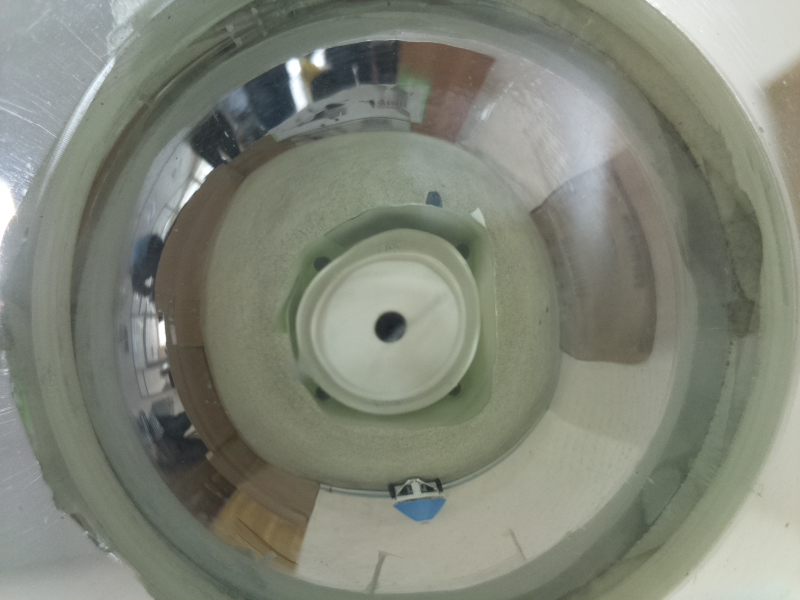
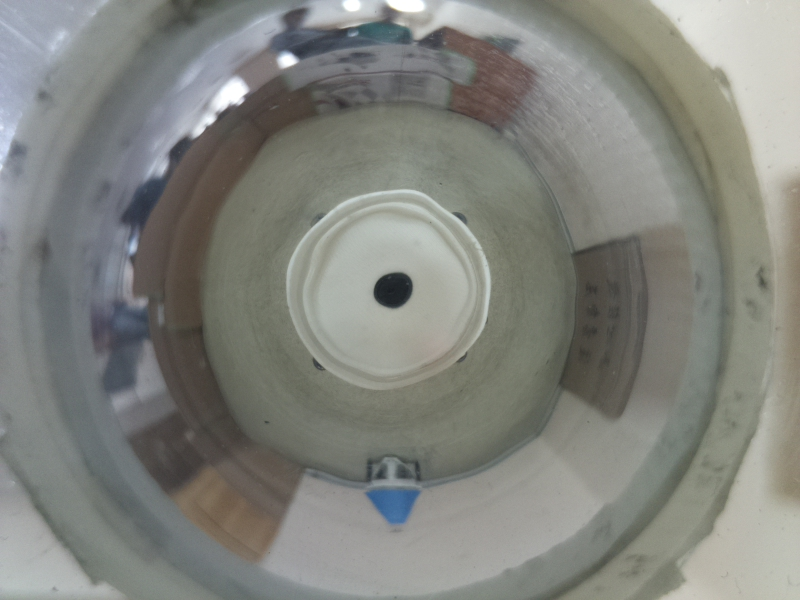
斜めの矩形描画に対応
・minAreaRect()で、回転を考慮した外接矩形を描画させました。
・tupleにしたいけどlistになっているので、型変換をおこないました。(main)
・新たに撮影実験を行って、100-1000[mm]の100[mm]毎の写真を手に入れました。（500mm地点で斜め４５[deg]版あり）

diff --git a/ObjectTracking.py b/ObjectTracking.py
@@ -9,6 +9,7 @@ import serial
 import threading
 import json
 import sys
+import math
 
 #コマンドライン引数の受け取りのため
 args = sys.argv
@@ -51,7 +52,7 @@ def cut_circle(img):
 
   # マスク処理(ミラー部分だけを切り取る)
   result = cv2.bitwise_and(img, img, mask=white_img)
-    
+
   return result
 
 # Find Target Color
@@ -60,7 +61,7 @@ def find_rect_of_target_color(getImage,colorNum):
   h = hsv[:, :, 0]
   s = hsv[:, :, 1]
   mask = np.zeros(h.shape, dtype=np.uint8)
-  
+
   #Red
   if(colorNum == 1):
       mask[( (h < colorRange[0][0]) | (h > colorRange[0][1]) ) & (s > 128)] = 255
@@ -79,53 +80,58 @@ def find_rect_of_target_color(getImage,colorNum):
 
   getImage,contours,hierarchy = cv2.findContours(mask, cv2.RETR_TREE, cv2.CHAIN_APPROX_SIMPLE)
   rects = []
-  
+
   for i in range(0,2):
     for contour in contours:
       approx = cv2.convexHull(contour)
-      rect = cv2.boundingRect(approx)
+      #rect = cv2.boundingRect(approx)
+
+      rect = cv2.minAreaRect(approx)
+      #print (rect)
+      #box = cv2.boxPoints(rect)
+      #box = np.int0(box)
       rects.append(np.array(rect))
+      #box.append(np.array(box))
 
   return rects
-
 
 if __name__ == '__main__':
 
   # Loading Image's
-  image = cv2.imread('C:\\Users\\nct20\\Documents\\GitHub\\objectTracking\\image_input\\1000mm.jpg')
+  image = cv2.imread('C:\\Users\\nct20\\Documents\\GitHub\\objectTracking\\image_input\\200mm.jpg')
   template = cv2.imread('C:\\Users\\nct20\\Documents\\GitHub\\objectTracking\\image_input\\robot_sample_200mm.jpg',0)
-  
+
   rectsR = []
   rectsB = []
   rectsG = []
   #print ("Hello!!")
   image = cut_circle(image)
   #image = cv2.flip(image,1)
-  #image = frame_image 
-  
+  #image = frame_image
+
   rectsR = find_rect_of_target_color(image, 1)
   rectsB = find_rect_of_target_color(image, 2)
   rectsG = find_rect_of_target_color(image, 3)
   rectsP = find_rect_of_target_color(image, 4)
   rectsY = find_rect_of_target_color(image, 5)
-  
+
   if len(rectsR) >0:
      rectR = max(rectsR, key = (lambda x: x[2] * x[3]))
      cv2.rectangle(image, tuple(rectR[0:2]), tuple(rectR[0:2] + rectR[2:4]), (0, 0, 255), thickness=2)
   if len(rectsB) >0:
-     rectB = max(rectsB, key = (lambda x: x[2] * x[3]))
-     cv2.rectangle(image, tuple(rectB[0:2]), tuple(rectB[0:2] + rectB[2:4]), (255, 0, 0), thickness=2)
-     print ('w:' + str(rectB[2]) + ',h:' + str(rectB[3]))
-     print (str(900 - rectB[3]*700/42) + '[mm]')
-  if len(rectsG) >0:
-     rectG = max(rectsG, key = (lambda x: x[2] * x[3]))
-     cv2.rectangle(image, tuple(rectG[0:2]), tuple(rectG[0:2] + rectG[2:4]), (0, 255, 0), thickness=2)
-  if len(rectsP) >0:
-     rectP = max(rectsP, key = (lambda x: x[2] * x[3]))
-     cv2.rectangle(image, tuple(rectP[0:2]), tuple(rectP[0:2] + rectP[2:4]), (168, 87, 167), thickness=2)
-  if len(rectsY) >0:
-     rectY = max(rectsY, key = (lambda x: x[2] * x[3]))
-     cv2.rectangle(image, tuple(rectY[0:2]), tuple(rectY[0:2] + rectY[2:4]), (0, 199, 227), thickness=2)
+     rectB = tuple(max(rectsB, key = (lambda x: x[1][0] * x[1][1])))
+     #cv2.rectangle(image, tuple(rectB[0:2]), tuple(rectB[0:2] + rectB[2:4]), (255, 0, 0), thickness=1)
+     #print (rectB)
+     box = cv2.boxPoints(rectB)
+     box = np.int0(box)
+     image = cv2.drawContours(image,[box],0,(0,0,255),2)
+     print ('w:' + str(rectB[1][0]) + ',h:' + str(rectB[1][1]))
+     #print (str(900 - rectB[3]*700/42) + '[mm]')
+     #print (87*42*200/(rectB[2]*rectB[3]))
+     #ミラー画像上での距離の導出
+     print (math.sqrt( ((rectB[0][0] + rectB[1][0]/2) - FRAME_W/2)**2 + ((rectB[0][1] + rectB[1][1]/2) - (FRAME_H/2+10))**2 ))
+     #print (str(radiusV/194.28394169359444 * 200) + '[mm]')
+
 
   #originX,originY = (int)(FRAME_W/2+10), (int)(FRAME_H/2-20)
   #x, y = rectR[0]+(int)(rectR[2]/2.0), rectR[1]+(int)(rectR[3]/2.0)
@@ -137,6 +143,6 @@ if __name__ == '__main__':
   # calc distance
   #distance = calcDistance(originX,originY,x,y)
   #print("Distance = ", distance)
-  
+
   cv2.imshow('Recognition Now.', image)
   key_action(image)
